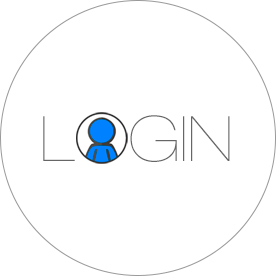
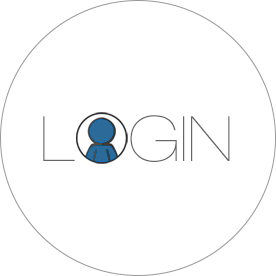
login page text css

Changed region(s): [[0.3188, 0.4348, 0.4348, 0.6087]]

diff --git a/css/style.css b/css/style.css
@@ -655,12 +655,12 @@ footer{width:100%; float:left; height:auto; margin-top:30px;}
 .txt_box{width:288px; display:inline-block; border:1px solid #666; height:23px; padding:0 0 0 10px; font-family:"myriadpro-regular"; font-size:14px;}
 .row{width:100%; display:inline-block; float:left;}
 .row span{width:100%; display:inline-block; float:left; font-family:"myriadpro-regular"; font-size:16px; text-transform:uppercase; color:#999; line-height:normal; margin-top:10px;}
-.row span a{font-family:"myriadpro-regular"; font-size:16px; text-transform:uppercase; color:#0080ff;}
+.row span a{font-family:"myriadpro-regular"; font-size:16px; text-transform:uppercase; color:#2C6A99;}
 .lgn_btn{background:#fff; overflow:hidden; font-family:"myriadpro-regular"; font-size:28px; color:#2C6A99; border:1px solid #999; text-transform:uppercase; padding:8px; line-height:20px; cursor:pointer; margin-top:17px;}
 .lgn_rgt{float:left; width:367px; display:block; height:auto;}
 .new_user{margin-left:50px; margin-top:109px;}
-.new_user h1{font-family:"myriadpro-regular"; font-size:28px; text-transform:uppercase; padding-left:10px; border-left:3px solid #0080ff; color:#333; font-weight:normal; float:left; margin:0px; width:inherit; height:inherit; border-bottom:0 none; padding-bottom:0;}
-.new_user a{font-family:"myriadpro-regular"; font-size:18px; text-transform:uppercase; padding-left:5px; color:#0080ff; display:inline-block; margin-top:6px;}
+.new_user h1{font-family:"myriadpro-regular"; font-size:28px; text-transform:uppercase; padding-left:10px; border-left:3px solid #2C6A99; color:#333; font-weight:normal; float:left; margin:0px; width:inherit; height:inherit; border-bottom:0 none; padding-bottom:0;}
+.new_user a{font-family:"myriadpro-regular"; font-size:18px; text-transform:uppercase; padding-left:5px; color:#2C6A99; display:inline-block; margin-top:6px;}
 .lgn_btnlogo{width:100%; display:inline-block; float:left; text-align:center; margin-top:60px;}
 
 /*========Register============*/
